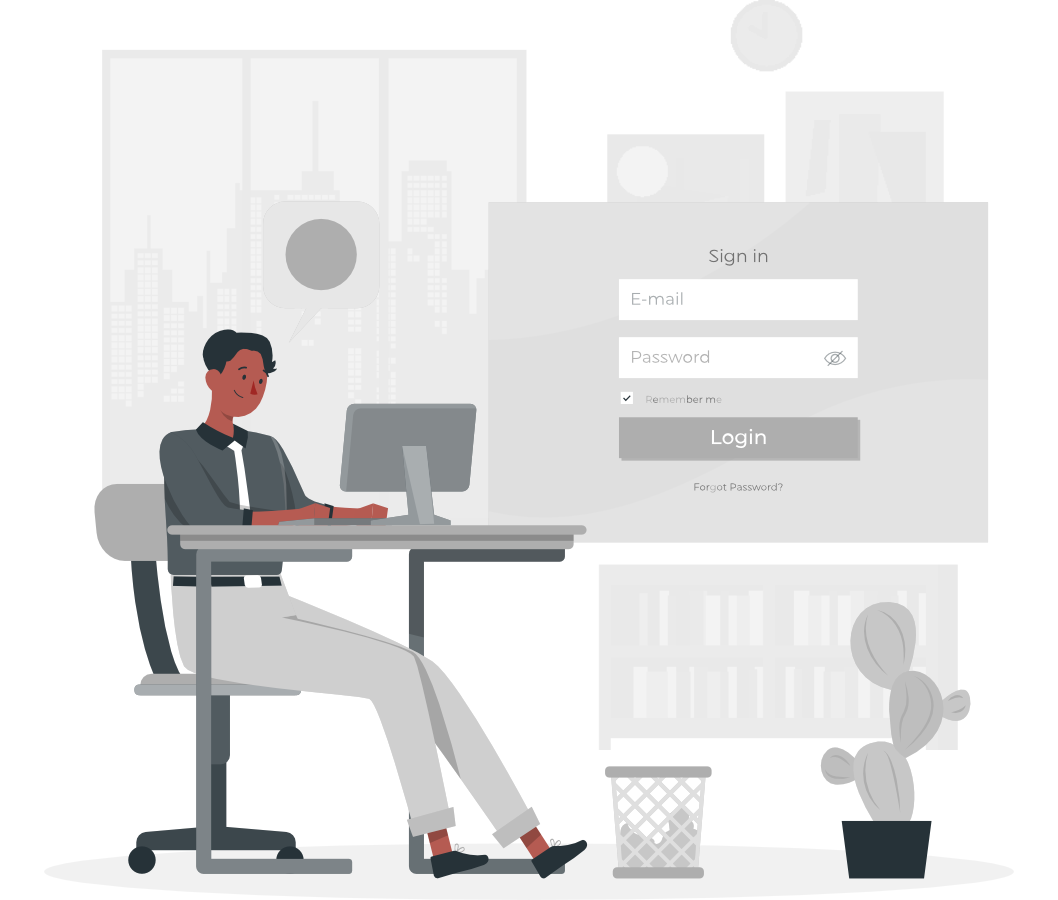
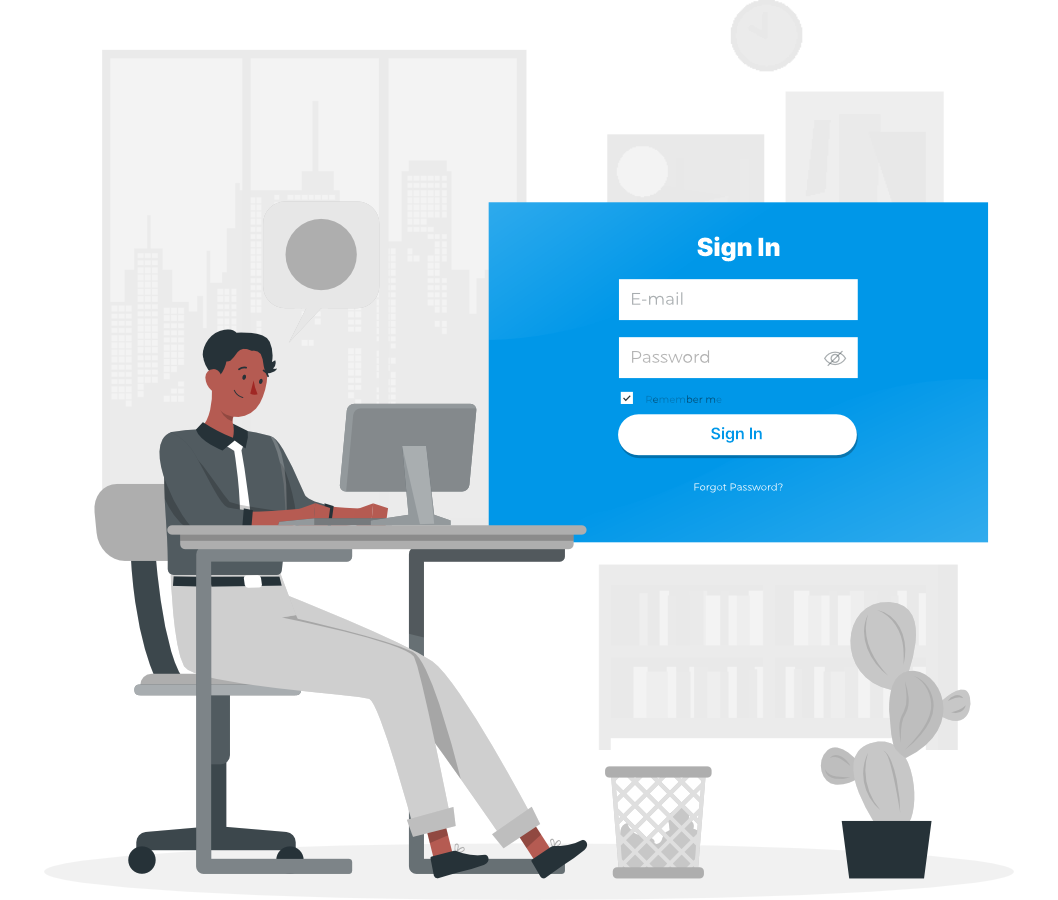
styling

Changed region(s): [[0.4367, 0.2178, 0.9357, 0.6222]]

diff --git a/src/pages/Home.tsx b/src/pages/Home.tsx
@@ -1,5 +1,6 @@
 import {
   Box,
+  Button,
   Center,
   Icon,
   Image,
@@ -9,46 +10,81 @@ import {
 } from "@chakra-ui/react";
 import HomeContainer from "../components/HomeContainer";
 import homeNav from "../const/homeNav";
+import { Link } from "react-router-dom";
+import NavHeader from "../components/NavHeader";
+import ProfileSummary from "../components/ProfileSummary";
+import { SignOut } from "@phosphor-icons/react";
+import { useState, useEffect } from "react";
+import { AuthState } from "../types";
+import { getCookie } from "typescript-cookie";
+import Container from "../components/Container";
 
 export default function Home() {
+  const [authState, setAuthState] = useState<AuthState | null>(null);
+
+  useEffect(() => {
+    const authStateCookie = getCookie("_authState");
+    if (authStateCookie) {
+      setAuthState(JSON.parse(authStateCookie));
+    }
+  }, []);
+
   return (
     <HomeContainer>
-      <VStack flex={1} justify={"center"}>
-        <Image src="/logo.svg" mb={4} title="Laleta Logo" />
-        <Text fontSize={28} fontWeight={800} mb={6}>
-          LALETA POS
-        </Text>
+      <NavHeader
+        left={<ProfileSummary user={authState} />}
+        right={
+          <Button
+            rightIcon={<Icon as={SignOut} weight="bold" />}
+            borderRadius={"full"}
+            className="btn-outline clicky"
+            variant={"ghost"}
+            flexShrink={0}
+          >
+            Sign Out
+          </Button>
+        }
+      />
 
-        <SimpleGrid columns={[2, null, 3]} gap={4} mb={4}>
-          {homeNav.map((n, i) => (
-            <VStack
-              key={i}
-              className="clicky"
-              justify={"center"}
-              p={4}
-              pb={2}
-              borderRadius={8}
-              transition={"200ms"}
-              cursor={"pointer"}
-              _hover={{ bg: "var(--divider)" }}
-            >
-              <Center bg={n.bg} borderRadius={8} p={4}>
-                <Icon as={n.icon} color={"wt"} fontSize={72} />
-              </Center>
-              <Text fontWeight={600} opacity={0.5}>
-                {n.name}
-              </Text>
-            </VStack>
-          ))}
-        </SimpleGrid>
-      </VStack>
+      <Container flex={1}>
+        <VStack flex={1} justify={"center"} py={4}>
+          <Image src="/logo.svg" mb={4} title="Laleta Logo" />
+          <Text fontSize={28} fontWeight={800} mb={6}>
+            LALETA POS
+          </Text>
 
-      <Box opacity={0.5}>
-        <Text textAlign={"center"}>v.1</Text>
-        <Text textAlign={"center"} fontSize={[11, null, 13]}>
-          powered by Distro Studio
-        </Text>
-      </Box>
+          <SimpleGrid columns={[2, null, 3]} gap={4} mb={4}>
+            {homeNav.map((n, i) => (
+              <Link key={i} to={n.link}>
+                <VStack
+                  className="clicky"
+                  justify={"center"}
+                  p={4}
+                  pb={2}
+                  borderRadius={8}
+                  transition={"200ms"}
+                  cursor={"pointer"}
+                  _hover={{ bg: "var(--divider)" }}
+                >
+                  <Center bg={n.bg} borderRadius={8} p={4}>
+                    <Icon as={n.icon} color={"wt"} fontSize={72} />
+                  </Center>
+                  <Text fontWeight={600} opacity={0.5}>
+                    {n.name}
+                  </Text>
+                </VStack>
+              </Link>
+            ))}
+          </SimpleGrid>
+        </VStack>
+
+        <Box opacity={0.5} py={2}>
+          <Text textAlign={"center"}>v.1</Text>
+          <Text textAlign={"center"} fontSize={[11, null, 13]}>
+            powered by Distro Studio
+          </Text>
+        </Box>
+      </Container>
     </HomeContainer>
   );
 }

diff --git a/src/components/NavHeader.tsx b/src/components/NavHeader.tsx
@@ -1,30 +1,47 @@
-import { Box, HStack, Text } from "@chakra-ui/react";
+import { Box, HStack, Text, VStack, useColorModeValue } from "@chakra-ui/react";
 import BackButton from "./BackButton";
-import { useComponentsBg } from "../const/colorModeValues";
 
 export default function NavHeader(props: any) {
-  const navHeaderBg = useComponentsBg();
+  const cfg = useColorModeValue(
+    {
+      bg: "linear-gradient(to bottom, #ffffff, #ffffffaa)",
+      backdropFilter: "blur(10px)",
+    },
+    {
+      bg: "linear-gradient(to bottom, #000000, #000000aa)",
+      backdropFilter: "blur(10px)",
+    }
+  );
 
   return (
-    <HStack
+    <VStack
       w={"100%"}
-      maxW={"1040px"}
-      mx={"auto"}
-      justify={"space-between"}
-      bg={props.bg || navHeaderBg}
-      animation={"fade-in 300ms"}
+      zIndex={99}
+      position={"sticky"}
+      top={0}
+      left={0}
+      p={"10px" }
+      {...cfg}
     >
-      {props.left === "backButton" ? (
-        <BackButton />
-      ) : (
-        props.left || <Box w={"40px"} h={"40px"} />
-      )}
+      <HStack
+        w={"100%"}
+        maxW={"1040px"}
+        mx={"auto"}
+        justify={"space-between"}
+        animation={"fade-in 300ms"}
+      >
+        {props.left === "backButton" ? (
+          <BackButton />
+        ) : (
+          props.left || <Box w={"40px"} h={"40px"} />
+        )}
 
-      <Text fontWeight={700} fontSize={15}>
-        {props.title}
-      </Text>
+        <Text fontWeight={700} fontSize={15}>
+          {props.title}
+        </Text>
 
-      {props.right || <Box w={"40px"} h={"40px"} />}
-    </HStack>
+        {props.right || <Box w={"40px"} h={"40px"} />}
+      </HStack>
+    </VStack>
   );
 }

diff --git a/src/components/HomeContainer.tsx b/src/components/HomeContainer.tsx
@@ -1,46 +1,9 @@
-import { Button, HStack, Icon, VStack } from "@chakra-ui/react";
-import { getCookie } from "typescript-cookie";
-import { useState, useEffect } from "react";
-import { AuthState } from "../types";
-import Container from "../components/Container";
-import ProfileSummary from "../components/ProfileSummary";
-import { SignOut } from "@phosphor-icons/react";
-import { useComponentsBg } from "../const/colorModeValues";
+import { VStack } from "@chakra-ui/react";
 
 export default function HomeContainer({ children }: any) {
-  const [authState, setAuthState] = useState<AuthState | null>(null);
-  const cfg = useComponentsBg();
-
-  useEffect(() => {
-    const authStateCookie = getCookie("_authState");
-    if (authStateCookie) {
-      setAuthState(JSON.parse(authStateCookie));
-    }
-  }, []);
-
   return (
-    <VStack minH={"100vh"} justify={"stretch"}>
-      <Container position={"sticky"} top={0} left={0} {...cfg}>
-        <HStack justify={"space-between"} py={4}>
-          <ProfileSummary user={authState} />
-
-          <Button
-            rightIcon={<Icon as={SignOut} weight="bold" />}
-            borderRadius={"full"}
-            className="btn-outline clicky"
-            variant={"ghost"}
-            flexShrink={0}
-          >
-            Sign Out
-          </Button>
-        </HStack>
-      </Container>
-
-      <Container flex={1}>
-        <VStack gap={0} flex={1} justify={"center"} py={4}>
-          {children}
-        </VStack>
-      </Container>
+    <VStack minH={"100vh"} justify={"stretch"} gap={0}>
+      {children}
     </VStack>
   );
 }

diff --git a/src/pages/SignIn.tsx b/src/pages/SignIn.tsx
@@ -17,7 +17,6 @@ import { useFormik } from "formik";
 import * as yup from "yup";
 import InputPassword from "../components/InputPassword";
 import { Link } from "react-router-dom";
-import { useComponentsBg } from "../const/colorModeValues";
 import { ColorModeSwitcher } from "../components/ColorModeSwitcher";
 import { PrimaryButton } from "../components/Buttons";
 import { useNavigate } from "react-router-dom";
@@ -26,7 +25,6 @@ import { setCookie } from "typescript-cookie";
 
 export default function SignIn() {
   const navigate = useNavigate();
-  const cfg = useComponentsBg();
 
   const formik = useFormik({
     validateOnChange: false,
@@ -91,19 +89,16 @@ export default function SignIn() {
 
   return (
     <>
-      <VStack zIndex={99} position={"sticky"} top={0} left={0} {...cfg} p={2}>
-        <NavHeader
-          title={"Sign In"}
-          backPath={"/"}
-          right={
-            <ColorModeSwitcher
-              className="btn sm-clicky"
-              borderRadius={"full"}
-              h={"40px !important"}
-            />
-          }
-        />
-      </VStack>
+      <NavHeader
+        title={"Sign In"}
+        right={
+          <ColorModeSwitcher
+            className="btn sm-clicky"
+            borderRadius={"full"}
+            h={"40px !important"}
+          />
+        }
+      />
 
       <Container>
         <VStack

diff --git a/src/pages/NewStore.tsx b/src/pages/NewStore.tsx
@@ -1,0 +1,20 @@
+import HomeContainer from "../components/HomeContainer";
+import { Image, SimpleGrid, VStack } from "@chakra-ui/react";
+import NavHeader from "../components/NavHeader";
+import Container from "../components/Container";
+
+export default function NewStore() {
+  return (
+    <HomeContainer>
+      <NavHeader title={"Add New Store"} left={"backButton"} />
+
+      <Container flex={1}>
+        <VStack flex={1} justify={"center"} py={4}>
+          <SimpleGrid columns={[1, null, 2]}>
+            <Image src="/img/newStore.png" title="New Store Vector" />
+          </SimpleGrid>
+        </VStack>
+      </Container>
+    </HomeContainer>
+  );
+}

diff --git a/src/App.tsx b/src/App.tsx
@@ -7,6 +7,7 @@ import { globalTheme } from "./chakraTheme/globalTheme";
 import NotFound from "./pages/NotFound";
 import SignIn from "./pages/SignIn";
 import Home from "./pages/Home";
+import NewStore from "./pages/NewStore";
 
 export const App = () => (
   <ChakraProvider theme={globalTheme}>
@@ -16,7 +17,7 @@ export const App = () => (
         <Route path="/signin" element={<SignIn />} />
 
         <Route path="/home" element={<Home />} />
-        <Route path="/store" element={<Home />} />
+        <Route path="/new-store" element={<NewStore />} />
 
         <Route path="*" element={<NotFound />} />
       </Routes>

diff --git a/src/const/colorModeValues.ts b/src/const/colorModeValues.ts
@@ -2,10 +2,7 @@ import { useColorModeValue } from "@chakra-ui/react";
 
 const useComponentsBg = () =>
   useColorModeValue(
-    {
-      bg: "linear-gradient(to bottom, #ffffff, #ffffffcc)",
-      backdropFilter: "blur(10px)",
-    },
+    { bg: "#ffffffcc", backdropFilter: "blur(10px)" },
     { bg: "#000000cc", backdropFilter: "blur(10px)" }
   );
 

diff --git a/src/components/ProfileSummary.tsx b/src/components/ProfileSummary.tsx
@@ -5,7 +5,7 @@ export default function ProfileSummary(props: any) {
   const user = props?.user;
 
   return (
-    <HStack w={"100%"} maxW={"150px"}>
+    <HStack w={"100%"} maxW={"200px"}>
       {user?.image ? (
         <Center
           bg={"var(--divider)"}

diff --git a/src/const/homeNav.ts b/src/const/homeNav.ts
@@ -11,7 +11,7 @@ import {
 const homeNav: HomeNavItem[] = [
   {
     name: "Store",
-    link: "/store",
+    link: "/new-store",
     icon: Storefront,
     bg: "var(--p500)",
   },
